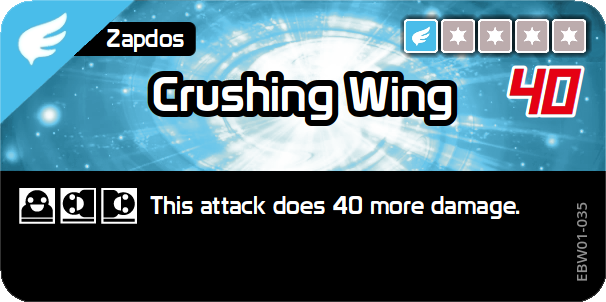
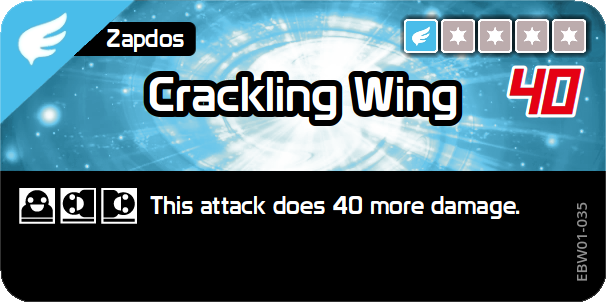
Card updated

Changed region(s): [[0.2376, 0.2086, 0.7723, 0.4172]]

diff --git a/database_it/text/wazacards/EB01/01-004_zapdos.md b/database_it/text/wazacards/EB01/01-004_zapdos.md
@@ -4,186 +4,186 @@
 
 #### Thunder Flash ?
 
-| Name      | Thunder Flash ?                                  |
-| --------- | ------------------------------------------------ |
-| Japanese  | でんじフラッシュ                                         |
-| Type      | Electric                                         |
-| Code      | EBW01-031                                        |
-| Pokémon   | Zapdos                                           |
-| Energy    | {L}{L}                                           |
-| Damage    | 20                                               |
-| Effect    |                                                  |
+| Name      | Thunder Flash ?                  |
+| --------- | -------------------------------- |
+| Japanese  | でんじフラッシュ                 |
+| Type      | Electric                         |
+| Code      | EBW01-031                        |
+| Pokémon   | Zapdos                           |
+| Energy    | {L}{L}                           |
+| Damage    | 20                               |
+| Effect    |                                  |
 | Standing  | This attack does 30 more damage. |
-| Handstand |                                                  |
+| Handstand |                                  |
 | Back      | This attack does 30 more damage. |
-| Down      |                                                  |
-| Sideways  |                                                  |
+| Down      |                                  |
+| Sideways  |                                  |
 
 [Thunder Flash](https://bandai-hobby.net/site/pokemon/plakoro/images/products/eb01/05/img_wazacard01.webp)
 
 #### Thunder Shock
 
-| Name      | Thunder Shock                                    |
-| --------- | ------------------------------------------------ |
-| Japanese  | でんきショック                                          |
-| Type      | Electric                                         |
-| Code      | EBW01-032                                        |
-| Pokémon   | Zapdos                                           |
-| Energy    | {L}                                              |
-| Damage    | 10                                               |
-| Effect    |                                                  |
+| Name      | Thunder Shock                    |
+| --------- | -------------------------------- |
+| Japanese  | でんきショック                   |
+| Type      | Electric                         |
+| Code      | EBW01-032                        |
+| Pokémon   | Zapdos                           |
+| Energy    | {L}                              |
+| Damage    | 10                               |
+| Effect    |                                  |
 | Standing  | This attack does 10 more damage. |
-| Handstand |                                                  |
+| Handstand |                                  |
 | Back      | This attack does 10 more damage. |
-| Down      |                                                  |
+| Down      |                                  |
 | Sideways  | This attack does 10 more damage. |
 
 [Thunder Shock](https://bandai-hobby.net/site/pokemon/plakoro/images/products/eb01/05/img_wazacard02.webp)
 
 #### Volt Rush ?
 
-| Name      | Volt Rush ?                                                                                              |
-| --------- | -------------------------------------------------------------------------------------------------------- |
-| Japanese  | ボルトラッシュ                                                                                                  |
-| Type      | Electric                                                                                                 |
-| Code      | EBW01-033                                                                                                |
-| Pokémon   | Zapdos                                                                                                   |
-| Energy    | {L}{L}{L}{L}                                                                                             |
-| Damage    | 10                                                                                                       |
+| Name      | Volt Rush ?                                                                              |
+| --------- | ---------------------------------------------------------------------------------------- |
+| Japanese  | ボルトラッシュ                                                                           |
+| Type      | Electric                                                                                 |
+| Code      | EBW01-033                                                                                |
+| Pokémon   | Zapdos                                                                                   |
+| Energy    | {L}{L}{L}{L}                                                                             |
+| Damage    | 10                                                                                       |
 | Effect    | Roll your Charakoro 3 times.                                                             |
 | Standing  | Each time the Charakoro roll succeeds with this attack, this attack does 30 more damage. |
-| Handstand |                                                                                                          |
-| Back      |                                                                                                          |
-| Down      |                                                                                                          |
+| Handstand |                                                                                          |
+| Back      |                                                                                          |
+| Down      |                                                                                          |
 | Sideways  | Each time the Charakoro roll succeeds with this attack, this attack does 30 more damage. |
 
 [Volt Rush](https://bandai-hobby.net/site/pokemon/plakoro/images/products/eb01/05/img_wazacard03.webp)
 
 #### Aerial Ace
 
-| Name      | Aerial Ace                                       |
-| --------- | ------------------------------------------------ |
-| Japanese  | つばめがえし                                           |
-| Type      | Flying                                           |
-| Code      | EBW01-034                                        |
-| Pokémon   | Zapdos                                           |
-| Energy    | {Y}                                              |
-| Damage    | 20                                               |
-| Effect    |                                                  |
+| Name      | Aerial Ace                       |
+| --------- | -------------------------------- |
+| Japanese  | つばめがえし                     |
+| Type      | Flying                           |
+| Code      | EBW01-034                        |
+| Pokémon   | Zapdos                           |
+| Energy    | {Y}                              |
+| Damage    | 20                               |
+| Effect    |                                  |
 | Standing  | This attack does 20 more damage. |
-| Handstand |                                                  |
+| Handstand |                                  |
 | Back      | This attack does 20 more damage. |
-| Down      |                                                  |
-| Sideways  |                                                  |
+| Down      |                                  |
+| Sideways  |                                  |
 
 [Aerial Ace](https://bandai-hobby.net/site/pokemon/plakoro/images/products/eb01/05/img_wazacard04.webp)
 
-#### Crushing Wing ?
+#### Crackling Wing ?
 
-| Name      | Crushing Wing ?                                  |
-| --------- | ------------------------------------------------ |
-| Japanese  | バリバリウイング                                         |
-| Type      | Flying                                           |
-| Code      | EBW01-035                                        |
-| Pokémon   | Zapdos                                           |
-| Energy    | {Y}{C}{C}{C}{C}                                  |
-| Damage    | 40                                               |
-| Effect    |                                                  |
+| Name      | Crackling Wing ?                 |
+| --------- | -------------------------------- |
+| Japanese  | バリバリウイング                 |
+| Type      | Flying                           |
+| Code      | EBW01-035                        |
+| Pokémon   | Zapdos                           |
+| Energy    | {Y}{C}{C}{C}{C}                  |
+| Damage    | 40                               |
+| Effect    |                                  |
 | Standing  | This attack does 40 more damage. |
-| Handstand |                                                  |
-| Back      |                                                  |
-| Down      |                                                  |
+| Handstand |                                  |
+| Back      |                                  |
+| Down      |                                  |
 | Sideways  | This attack does 40 more damage. |
 
-[Crushing Wing](https://bandai-hobby.net/site/pokemon/plakoro/images/products/eb01/05/img_wazacard05.webp)
+[Crackling Wing](https://bandai-hobby.net/site/pokemon/plakoro/images/products/eb01/05/img_wazacard05.webp)
 
 #### Dual Thunder ?
 
-| Name      | Dual Thunder ?                                                                                           |
-| --------- | -------------------------------------------------------------------------------------------------------- |
-| Japanese  | ダブルサンダー                                                                                                  |
-| Type      | Electric                                                                                                 |
-| Code      | EBW01-036                                                                                                |
-| Pokémon   | Zapdos                                                                                                   |
-| Energy    | {L}                                                                                                      |
-| Damage    |                                                                                                          |
+| Name      | Dual Thunder ?                                                                           |
+| --------- | ---------------------------------------------------------------------------------------- |
+| Japanese  | ダブルサンダー                                                                           |
+| Type      | Electric                                                                                 |
+| Code      | EBW01-036                                                                                |
+| Pokémon   | Zapdos                                                                                   |
+| Energy    | {L}                                                                                      |
+| Damage    |                                                                                          |
 | Effect    | Roll your Charakoro 2 times.                                                             |
 | Standing  | Each time the Charakoro roll succeeds with this attack, this attack does 20 more damage. |
-| Handstand |                                                                                                          |
+| Handstand |                                                                                          |
 | Back      | Each time the Charakoro roll succeeds with this attack, this attack does 20 more damage. |
 | Down      | Each time the Charakoro roll succeeds with this attack, this attack does 20 more damage. |
-| Sideways  |                                                                                                          |
+| Sideways  |                                                                                          |
 
 [Dual Thunder](https://bandai-hobby.net/site/pokemon/plakoro/images/products/eb01/05/img_wazacard06.webp)
 
 #### Electroarrow ?
 
-| Name      | Electroarrow ?                                   |
-| --------- | ------------------------------------------------ |
-| Japanese  | エレキアロー                                           |
-| Type      | Electric                                         |
-| Code      | EBW01-037                                        |
-| Pokémon   | Zapdos                                           |
-| Energy    | {L}{L}                                           |
-| Damage    | 20                                               |
-| Effect    |                                                  |
+| Name      | Electroarrow ?                   |
+| --------- | -------------------------------- |
+| Japanese  | エレキアロー                     |
+| Type      | Electric                         |
+| Code      | EBW01-037                        |
+| Pokémon   | Zapdos                           |
+| Energy    | {L}{L}                           |
+| Damage    | 20                               |
+| Effect    |                                  |
 | Standing  | This attack does 40 more damage. |
-| Handstand |                                                  |
-| Back      |                                                  |
-| Down      |                                                  |
-| Sideways  |                                                  |
+| Handstand |                                  |
+| Back      |                                  |
+| Down      |                                  |
+| Sideways  |                                  |
 
 [Electroarrow](https://bandai-hobby.net/site/pokemon/plakoro/images/products/eb01/05/img_wazacard07.webp)
 
 #### Discharge
 
-| Name      | Discharge                                        |
-| --------- | ------------------------------------------------ |
-| Japanese  | ほうでん                                             |
-| Type      | Electric                                         |
-| Code      | EBW01-038                                        |
-| Pokémon   | Zapdos                                           |
-| Energy    | {L}{L}{L}                                        |
-| Damage    | 30                                               |
-| Effect    |                                                  |
+| Name      | Discharge                        |
+| --------- | -------------------------------- |
+| Japanese  | ほうでん                         |
+| Type      | Electric                         |
+| Code      | EBW01-038                        |
+| Pokémon   | Zapdos                           |
+| Energy    | {L}{L}{L}                        |
+| Damage    | 30                               |
+| Effect    |                                  |
 | Standing  | This attack does 20 more damage. |
-| Handstand |                                                  |
+| Handstand |                                  |
 | Back      | This attack does 20 more damage. |
 | Down      | This attack does 20 more damage. |
-| Sideways  |                                                  |
+| Sideways  |                                  |
 
 [Discharge](https://bandai-hobby.net/site/pokemon/plakoro/images/products/eb01/05/img_wazacard08.webp)
 
 #### Thunder Chain ?
 
-| Name      | Thunder Chain ?                                                                                                                                              |
-| --------- | ------------------------------------------------------------------------------------------------------------------------------------------------------------ |
-| Japanese  | サンダーチェイン                                                                                                                                                     |
-| Type      | Electric                                                                                                                                                     |
-| Code      | EBW01-039                                                                                                                                                    |
-| Pokémon   | Zapdos                                                                                                                                                       |
-| Energy    | {L}{L}{L}{L}                                                                                                                                                 |
-| Damage    | 30                                                                                                                                                           |
-| Effect    |                                                                                                                                                              |
+| Name      | Thunder Chain ?                                                                           |
+| --------- | ----------------------------------------------------------------------------------------- |
+| Japanese  | サンダーチェイン                                                                          |
+| Type      | Electric                                                                                  |
+| Code      | EBW01-039                                                                                 |
+| Pokémon   | Zapdos                                                                                    |
+| Energy    | {L}{L}{L}{L}                                                                              |
+| Damage    | 30                                                                                        |
+| Effect    |                                                                                           |
 | Standing  | This attack does 30 more damage. Reroll your Charakoro. (Can be repeated until it fails.) |
-| Handstand |                                                                                                                                                              |
+| Handstand |                                                                                           |
 | Back      | This attack does 30 more damage. Reroll your Charakoro. (Can be repeated until it fails.) |
 | Down      | This attack does 30 more damage. Reroll your Charakoro. (Can be repeated until it fails.) |
-| Sideways  |                                                                                                                                                              |
+| Sideways  |                                                                                           |
 
 [Thunder Chain](https://bandai-hobby.net/site/pokemon/plakoro/images/products/eb01/05/img_wazacard09.webp)
 
 #### Fly
 
-| Name      | Fly                                                                                              |
-| --------- | ------------------------------------------------------------------------------------------------ |
-| Japanese  | そらをとぶ                                                                                            |
-| Type      | Flying                                                                                           |
-| Code      | EBW01-040                                                                                        |
-| Pokémon   | Zapdos                                                                                           |
-| Energy    | {Y}{C}{C}                                                                                        |
-| Damage    | 30                                                                                               |
-| Effect    |                                                                                                  |
+| Name      | Fly                                                                              |
+| --------- | -------------------------------------------------------------------------------- |
+| Japanese  | そらをとぶ                                                                       |
+| Type      | Flying                                                                           |
+| Code      | EBW01-040                                                                        |
+| Pokémon   | Zapdos                                                                           |
+| Energy    | {Y}{C}{C}                                                                        |
+| Damage    | 30                                                                               |
+| Effect    |                                                                                  |
 | Standing  | During your opponent's next turn, this Pokémon doesn't take damage from attacks. |
 | Handstand | This attack does nothing.                                                        |
 | Back      | This attack does nothing.                                                        |

diff --git a/database_es/text/wazacards/EB01/01-004_zapdos.md b/database_es/text/wazacards/EB01/01-004_zapdos.md
@@ -78,9 +78,9 @@
 
 [Golpe Aéreo](https://bandai-hobby.net/site/pokemon/plakoro/images/products/eb01/05/img_wazacard04.webp)
 
-#### Ala Trituradora ?
+#### Ala Chispeante ?
 
-| Nombre     | Ala Trituradora ?                       |
+| Nombre     | Ala Chispeante ?                        |
 | ---------- | --------------------------------------- |
 | Japonés    | バリバリウイング                        |
 | Tipo       | Volador                                 |
@@ -95,7 +95,7 @@
 | Boca abajo |                                         |
 | De lado    | Este ataque hace 40 puntos de daño más. |
 
-[Ala Trituradora](https://bandai-hobby.net/site/pokemon/plakoro/images/products/eb01/05/img_wazacard05.webp)
+[Ala Chispeante](https://bandai-hobby.net/site/pokemon/plakoro/images/products/eb01/05/img_wazacard05.webp)
 
 #### Doble Trueno ?
 

diff --git a/original_names.md b/original_names.md
@@ -22,7 +22,7 @@ Original translations for moves, due to being new Pokémon moves, or moves for o
 | EBW01-026  | フリーズダイブ       | Freeze Dive        | Picada Helada        |
 | EBW01-031  | でんじフラッシュ     | _Thunder Flash_    | _Trueno Destello_    |
 | EBW01-033  | ボルトラッシュ       | Volt Rush          | Electrofuria         |
-| EBW01-035  | バリバリウイング     | Crushing Wing      | Ala Trituradora      |
+| EBW01-035  | バリバリウイング     | ~~Crackling Wing~~ | ~~Ala Chispeante~~   |
 | EBW01-036  | ダブルサンダー       | Dual Thunder       | Doble Trueno         |
 | EBW01-037  | エレキアロー         | Electroarrow       | Electroflecha        |
 | EBW01-039  | サンダーチェイン     | Thunder Chain      | _Cadena de Rayos_    |

diff --git a/database/text/wazacards/EB01/01-004_zapdos.md b/database/text/wazacards/EB01/01-004_zapdos.md
@@ -78,9 +78,9 @@
 
 [Aerial Ace](https://bandai-hobby.net/site/pokemon/plakoro/images/products/eb01/05/img_wazacard04.webp)
 
-#### Crushing Wing ?
+#### Crackling Wing ?
 
-| Name      | Crushing Wing ?                  |
+| Name      | Crackling Wing ?                 |
 | --------- | -------------------------------- |
 | Japanese  | バリバリウイング                 |
 | Type      | Flying                           |
@@ -95,7 +95,7 @@
 | Down      |                                  |
 | Sideways  | This attack does 40 more damage. |
 
-[Crushing Wing](https://bandai-hobby.net/site/pokemon/plakoro/images/products/eb01/05/img_wazacard05.webp)
+[Crackling Wing](https://bandai-hobby.net/site/pokemon/plakoro/images/products/eb01/05/img_wazacard05.webp)
 
 #### Dual Thunder ?
 
